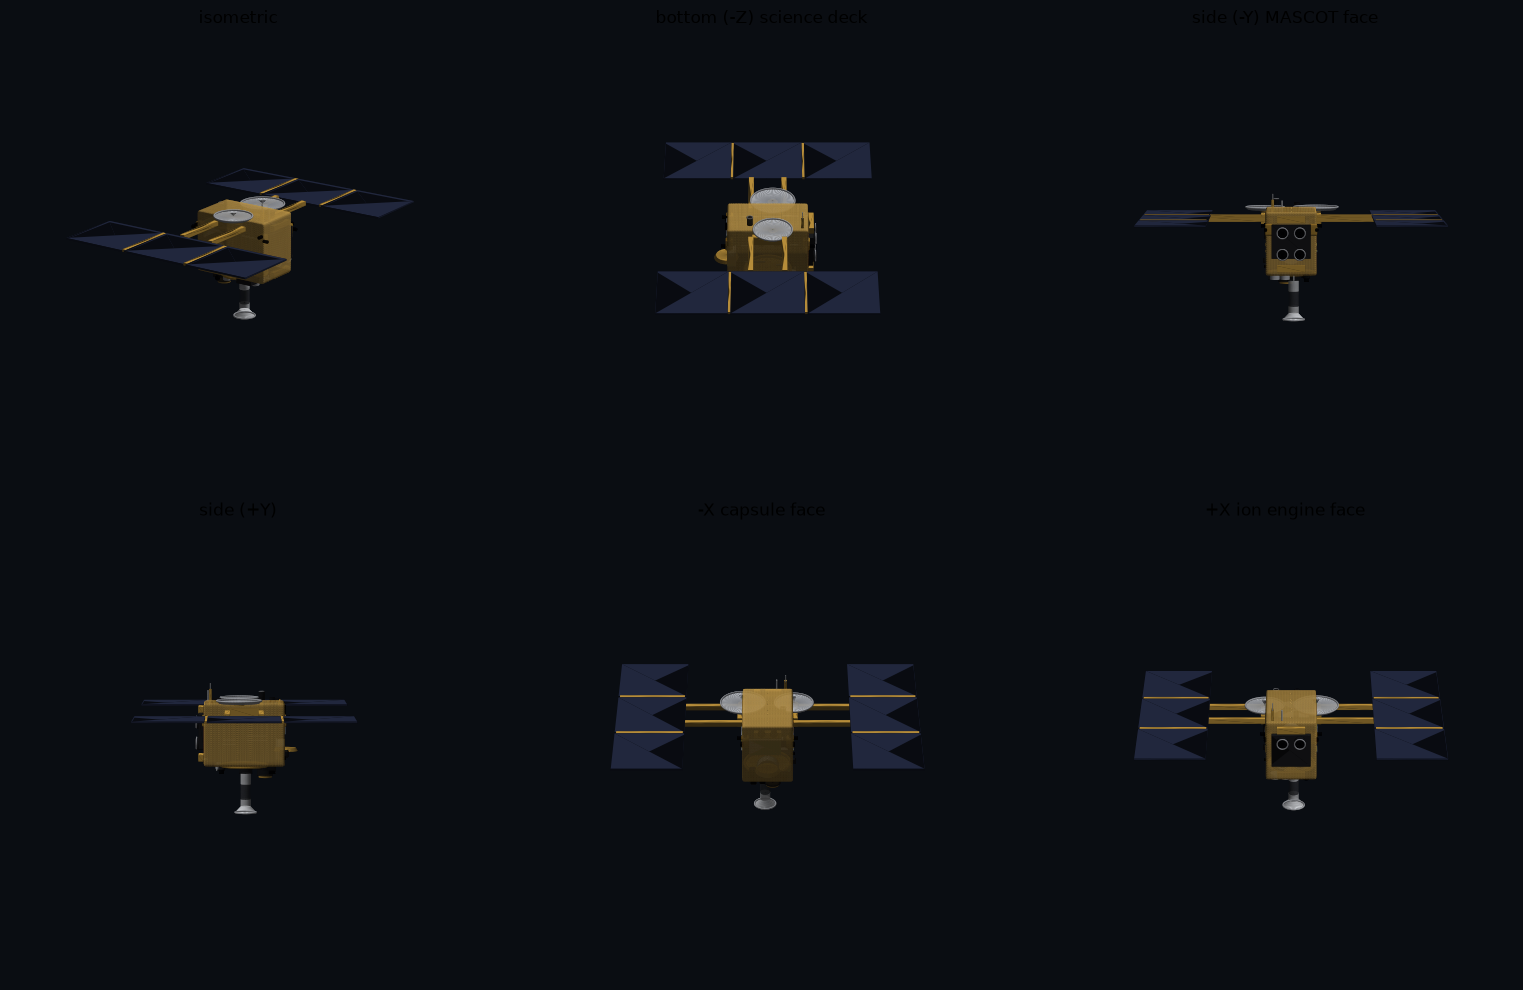
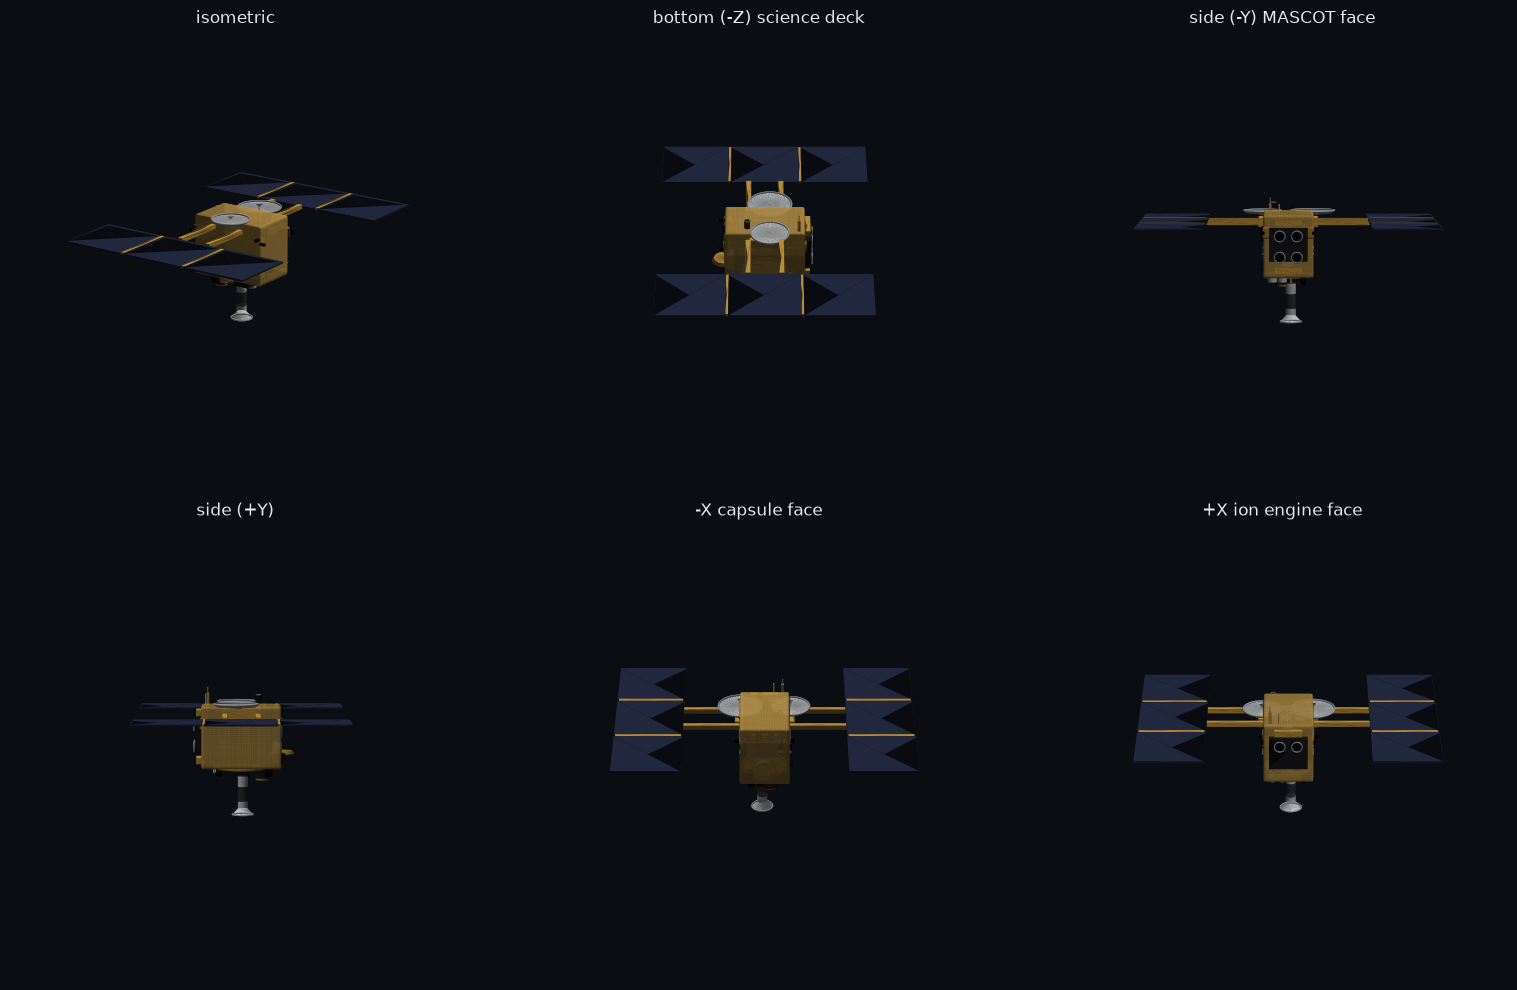
プレビュー画像のタイトル視認性を修正

diff --git a/11_spacecraft_model/build_hayabusa2_model.py b/11_spacecraft_model/build_hayabusa2_model.py
@@ -626,7 +626,7 @@ for k, (elev, azim, title) in enumerate(views):
     ax.set_xlim(-3.1, 3.1); ax.set_ylim(-3.1, 3.1); ax.set_zlim(-1.9, 1.4)
     ax.set_box_aspect((3.1, 3.1, 1.65))
     ax.view_init(elev=elev, azim=azim)
-    ax.set_title(title)
+    ax.set_title(title, color='#e8e8ec', pad=10)
     ax.axis('off')
     ax.set_facecolor('#0a0d12')
 plt.tight_layout()
